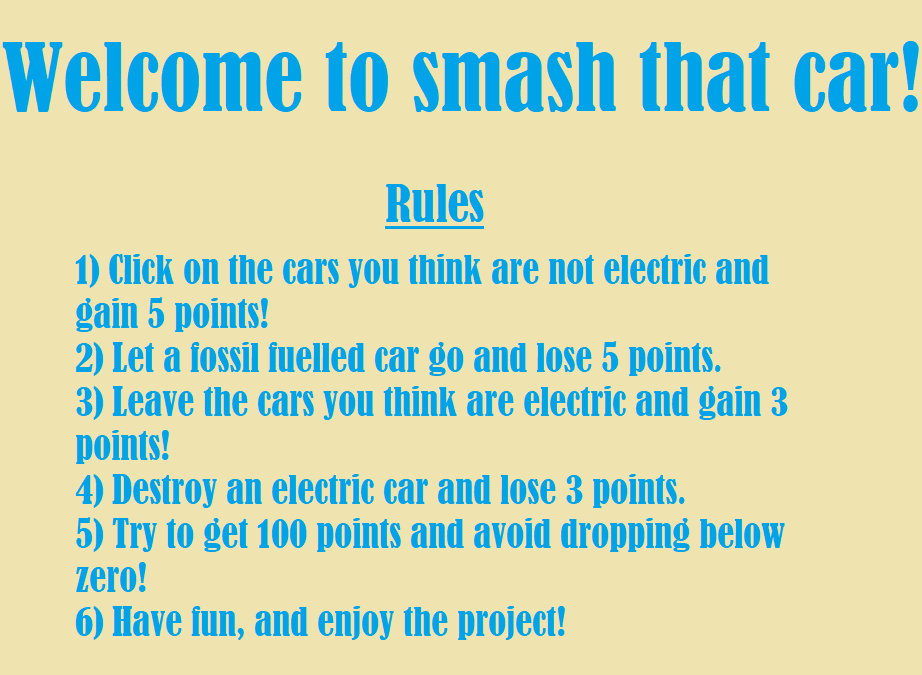
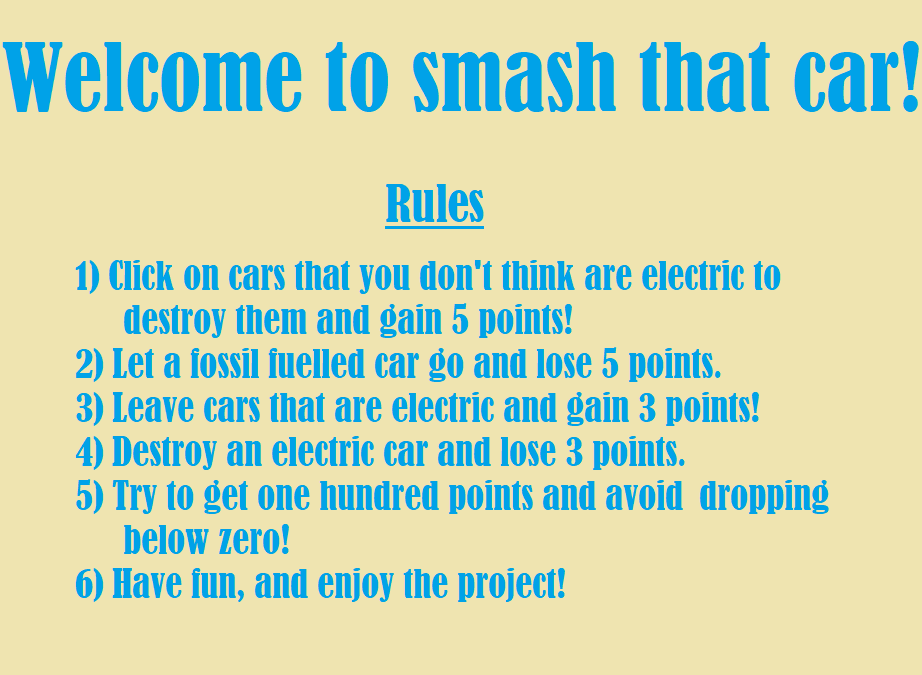
More cars
There are now two electric and two fossil cars

Changed region(s): [[0.0607, 0.3733, 0.9111, 0.9644]]

diff --git a/Flying_frogs/GUI.py b/Flying_frogs/GUI.py
@@ -2,7 +2,6 @@
 To do:
 -Tell user to install pygame
 -Make cars
--Change rules to be clearer on how to destroy a car
 '''
 
 # Import modules
@@ -214,19 +213,33 @@ class car(object):
 
 # Define cars
 # Replace these with actual cars. These are placeholders.
-E1 = car(True, [pygame.image.load('Cars\\ElectricCar1.png')], 5, 168, 91, 5)
-policecar = car(True,
-                [pygame.image.load('Cars\\P1.png'),
-                 pygame.image.load('Cars\\P2.png'),
-                 pygame.image.load('Cars\\P3.png'),
-                 pygame.image.load('Cars\\P2.png')],
+E1 = car(True,
+         [pygame.image.load('Cars\\ElectricCar1.png')],
+         5,
+         168,
+         91,
+         3)
+E2 = car(True,
+                [pygame.image.load('Cars\\ElectricCar2.png')],
                 10,
-                225,
-                110,
+                168,
+                94,
                 3)
+F1 = car(False,
+                [pygame.image.load('Cars\\FossilCar1.png')],
+                10,
+                265,
+                137,
+                5)
+F2 = car(False,
+                [pygame.image.load('Cars\\FossilCar2.png')],
+                10,
+                168,
+                101,
+                5)
 
 # List of available vehicles to chose from
-vehicles = [policecar, E1]
+vehicles = [E1, E2, F1, F2]
 
 
 # To show if the game is running
